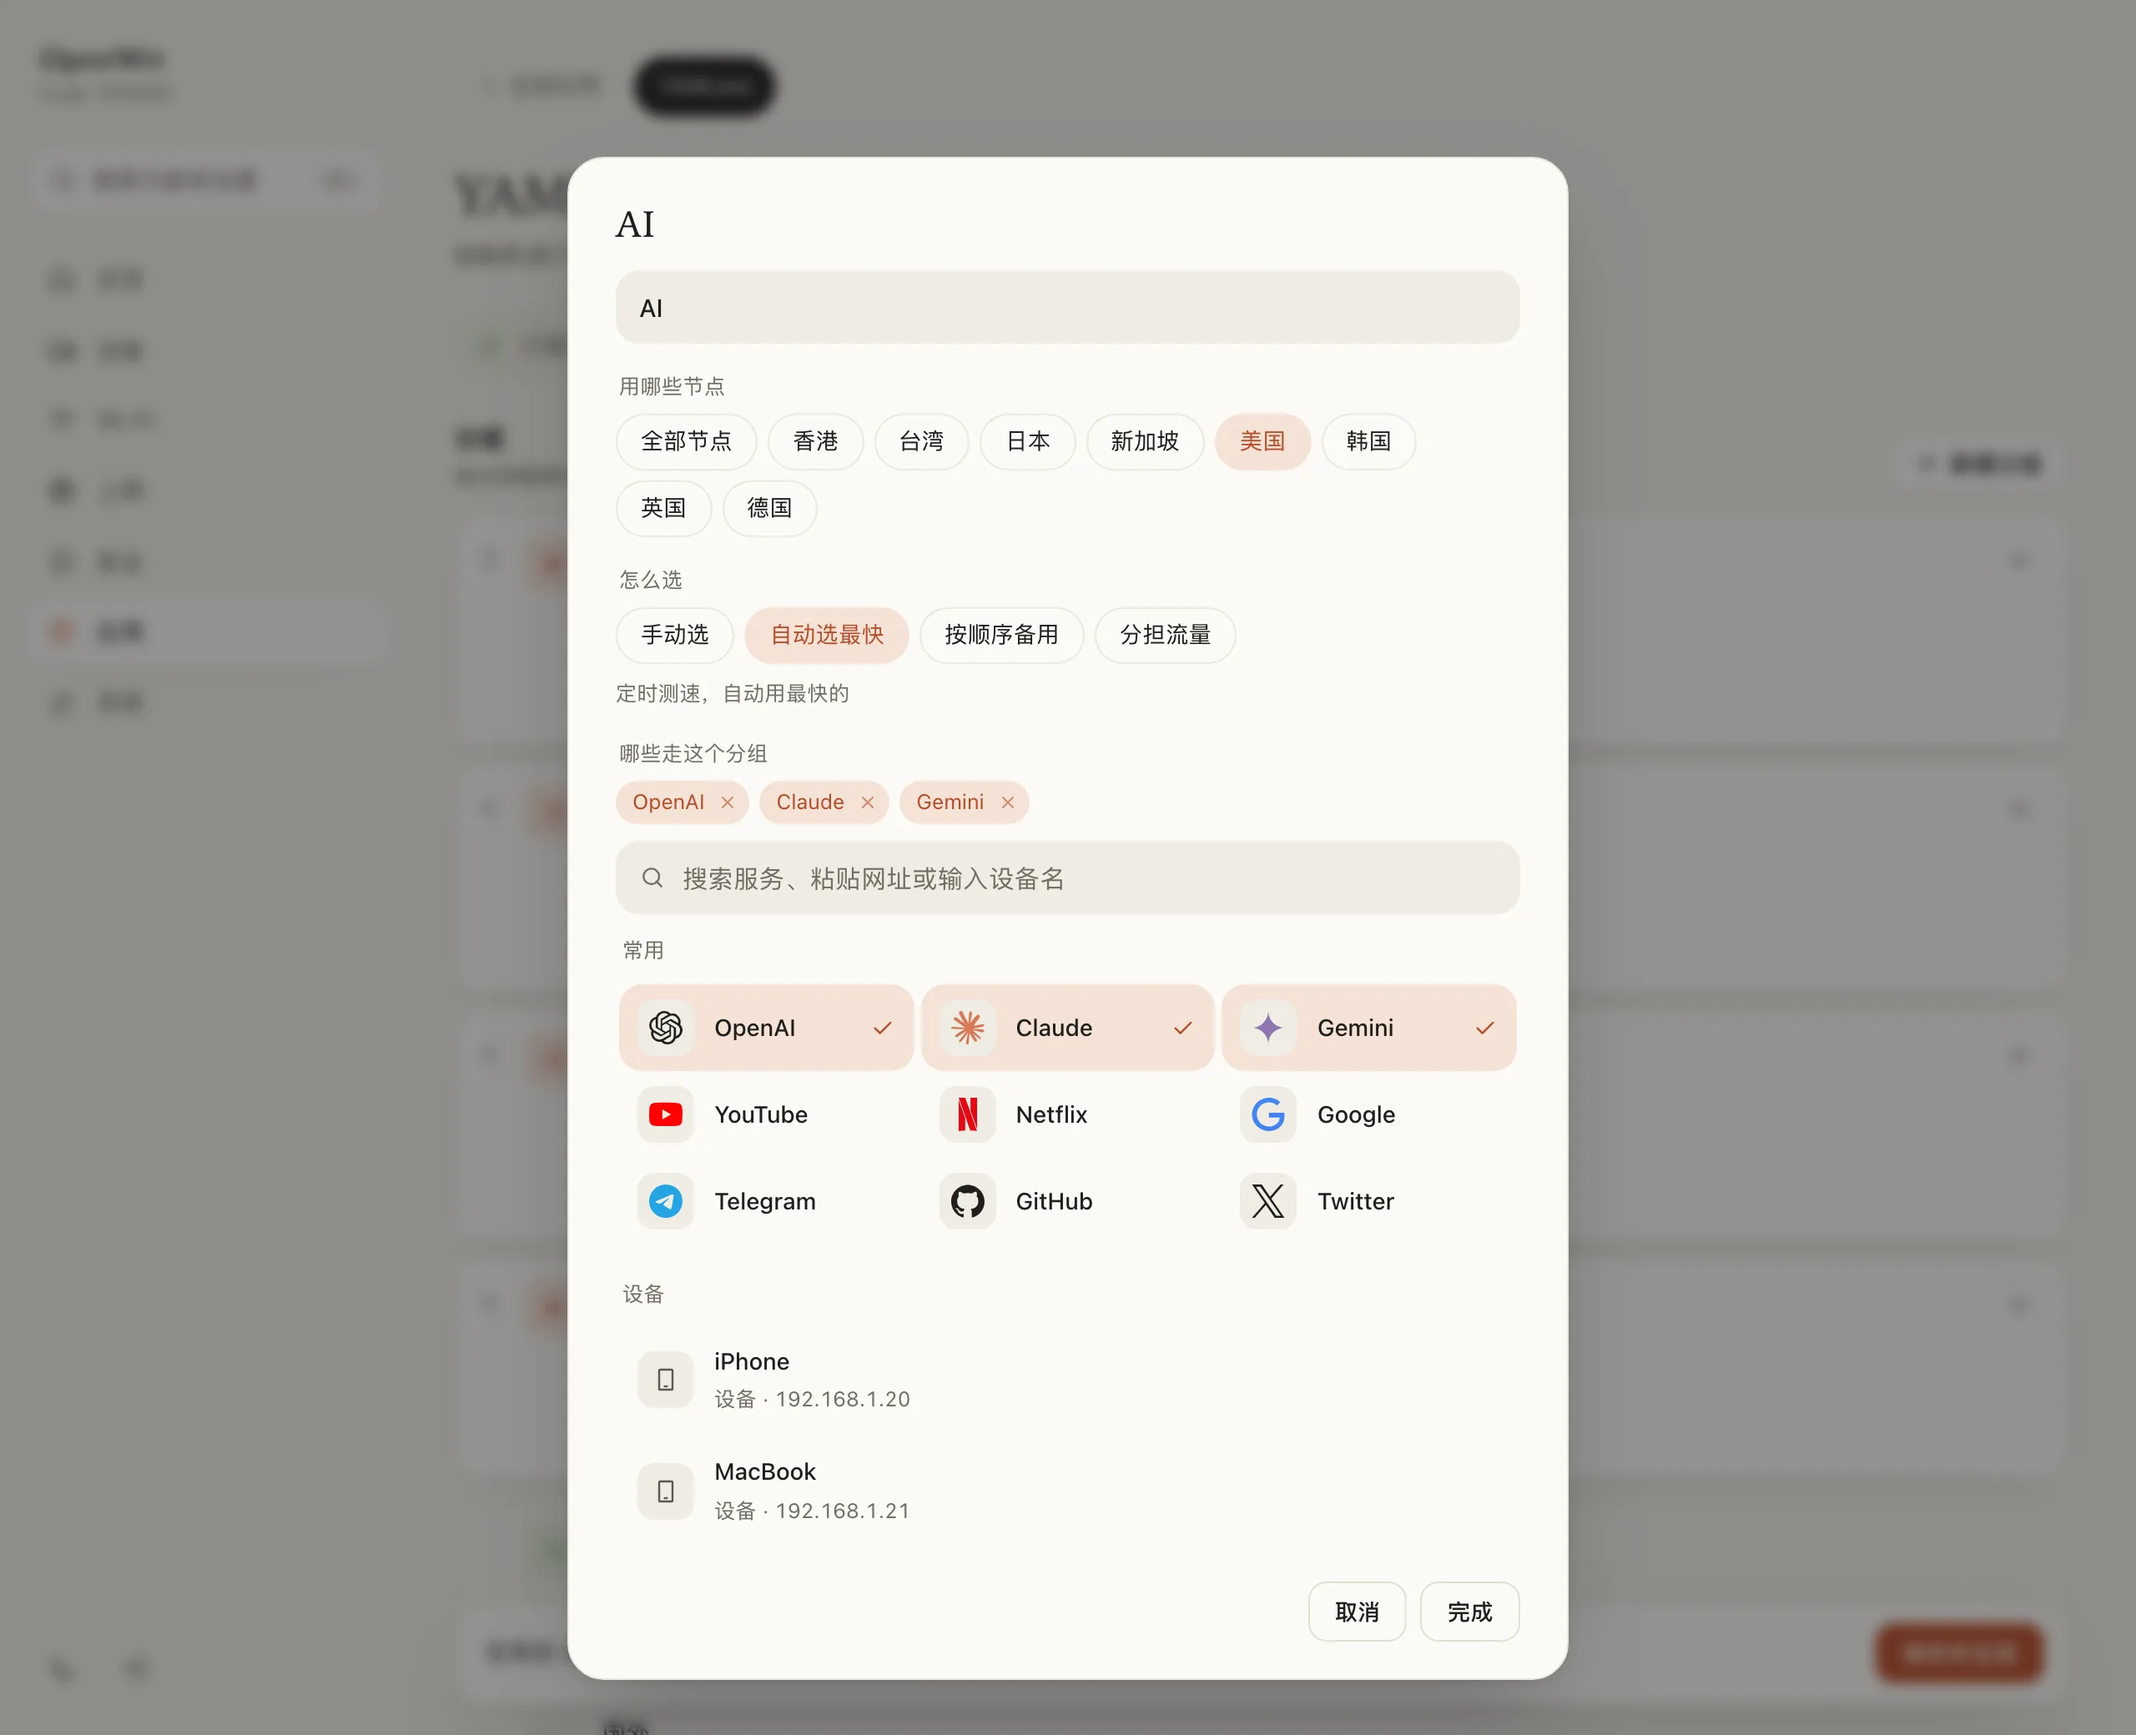
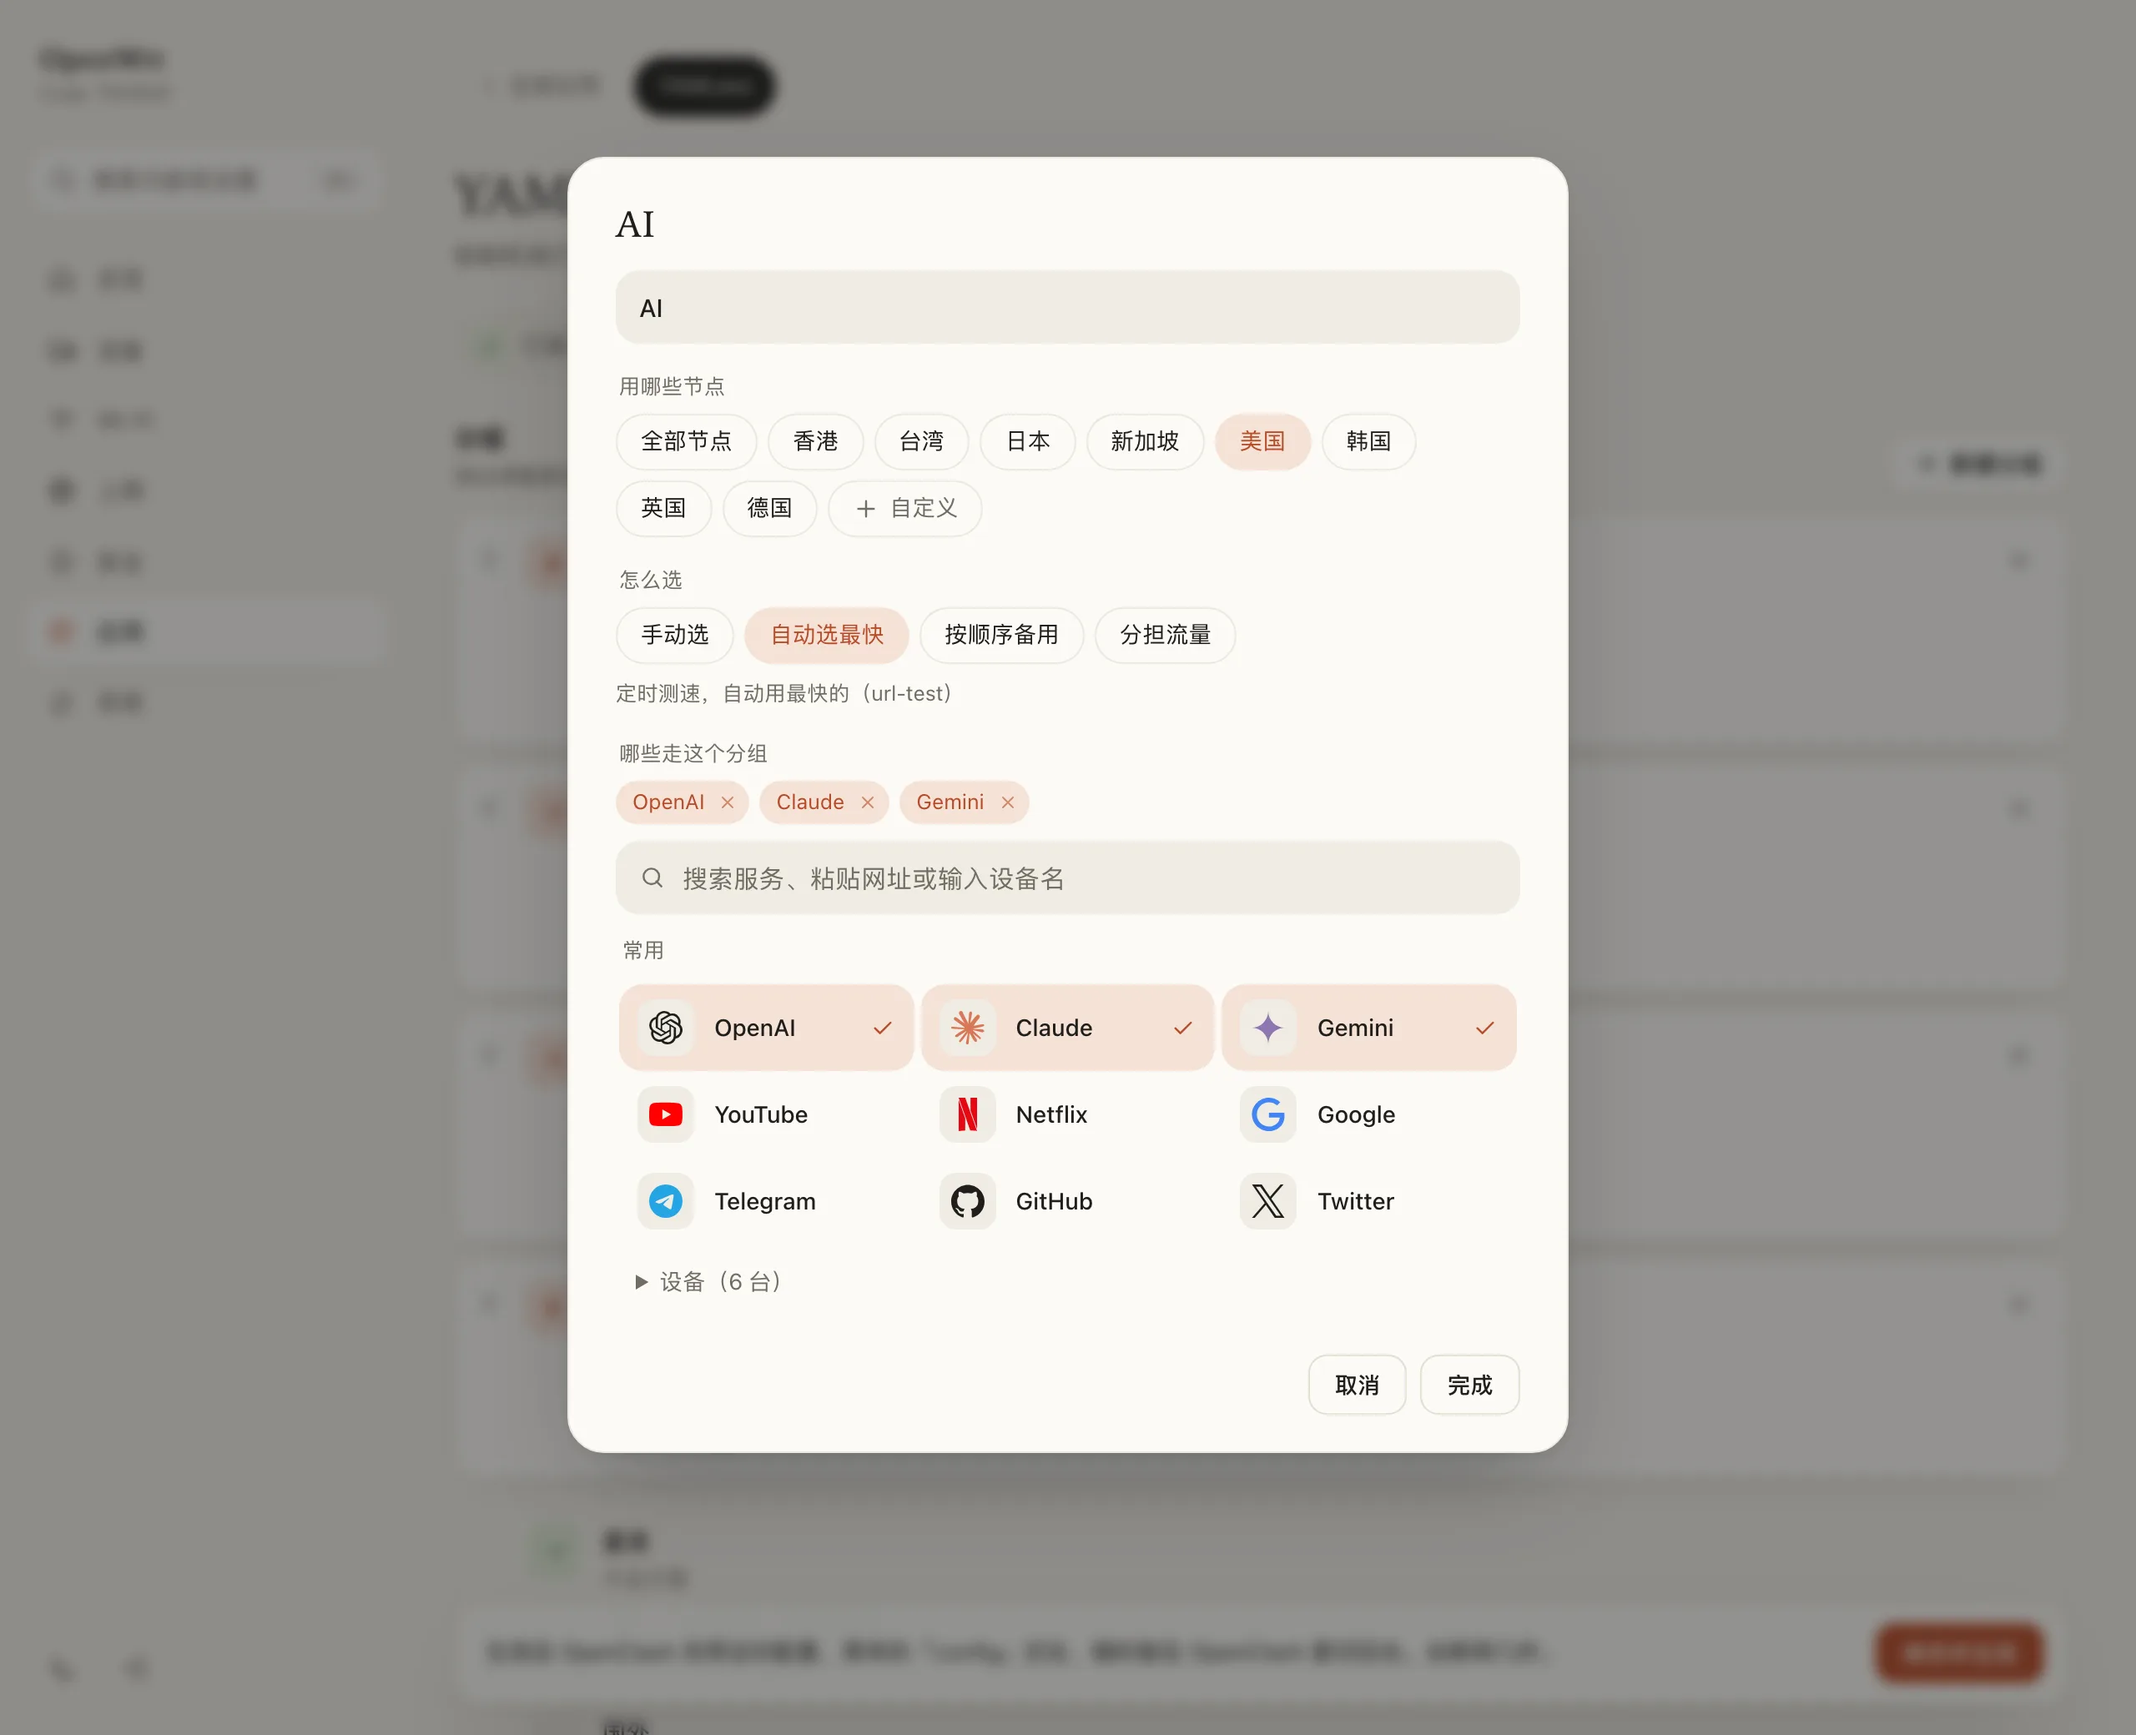
Devices folded by default; custom node keywords; show core group type names; http subscription links

Changed region(s): [[0.25, 0.7812, 0.75, 1.0], [0.2812, 0.7188, 0.3438, 0.75], [0.4062, 0.2812, 0.4375, 0.3125]]

diff --git a/htdocs/luci-static/resources/view/yamless/rules.js b/htdocs/luci-static/resources/view/yamless/rules.js
@@ -93,6 +93,9 @@ const line = (r, to) => r[0] == 'RULE-SET' ? `RULE-SET,${MINE}${r[1]},${to}` : `
 const ABROAD = T('国外', 'Overseas');
 const starter = auto => ({ subs: [ '' ], groups: [], direct: GEO.map(g => [ 'GEOIP', g[0] ]), rest: { type: auto, m: [ '*' ] }, mirror: 0 });
 const solo = t => t == '*' || t == 'd';   // node choices that stand alone
+// 'k:尼日利亚 NG' is a custom choice: any node whose name has one of these words
+const words = s => s.split(/[\s,，、|]+/).filter(Boolean);
+const reEsc = s => s.replace(/[.*+?^${}()|[\]\\]/g, '\\$&');
 
 function stateOf(conf) {
 	const l = conf.split('\n').find(l => l.startsWith(TAG));
@@ -233,7 +236,7 @@ return view.extend({
 	// null = every node, '' = no nodes, otherwise a regex the core filters the subscription with
 	filterOf(g) {
 		if (g.m.includes('*')) return null;
-		return g.m.filter(t => t[0] == 'r' && REG.has(t.slice(2))).map(t => REG.get(t.slice(2)).re).join('|');
+		return g.m.map(t => t[0] == 'r' ? (REG.get(t.slice(2)) || {}).re : t[0] == 'k' ? words(t.slice(2)).map(reEsc).join('|') : '').filter(Boolean).join('|');
 	},
 
 	snap() {
@@ -329,9 +332,9 @@ return view.extend({
 	},
 
 	pSubs() {
-		const rows = this.subs.map((u, i) => `<div class="sr-sub"><div class="sr-sub-r"><input class="cbi-input-text" type="url" data-sub="${i}" value="${esc(u)}" placeholder="https://…" autocomplete="off" spellcheck="false" aria-label="${T('订阅链接', 'Subscription link')}">
+		const rows = this.subs.map((u, i) => `<div class="sr-sub"><div class="sr-sub-r"><input class="cbi-input-text" type="url" data-sub="${i}" value="${esc(u)}" placeholder="${T('粘贴订阅链接', 'Paste the subscription link')}" autocomplete="off" spellcheck="false" aria-label="${T('订阅链接', 'Subscription link')}">
 				${this.subs.length > 1 ? `<button type="button" class="sr-x sr-subx" data-i="${i}" aria-label="${T('删除', 'Delete')}">${IC.x}</button>` : ''}</div>
-				<small class="sr-info bad"${!u || LINK.test(u) ? ' hidden' : ''}>${T('这不是一个链接，应以 https:// 开头', 'Not a link; it should start with https://')}</small></div>`).join('');
+				<small class="sr-info bad"${!u || LINK.test(u) ? ' hidden' : ''}>${T('这不是一个链接，应以 http:// 或 https:// 开头', 'Not a link; it should start with http:// or https://')}</small></div>`).join('');
 		const offer = this.ocSubs.filter(s => !this.subs.includes(s.address));
 		return `<section class="sr-sec">
 				<div class="sr-cap2"><b>${T('订阅链接', 'Subscription link')}</b><small>${T('机场给你的订阅地址', 'The link your provider gave you')}</small></div>
@@ -453,10 +456,11 @@ return view.extend({
 		const $ = s => box.querySelector(s), name = $('.sr-nm input'), find = $('.sr-find'), err = $('.sr-err');
 		const paintM = () => {
 			if (dir) return;
-			$('.sr-mem').innerHTML = [ '*', ...REGIONS.map(r => 'r:' + r.key), ...rest ? [ 'd' ] : [] ].map(t => this.opt(t, this.mLabel(t), d.m.includes(t))).join('');
+			$('.sr-mem').innerHTML = [ '*', ...REGIONS.map(r => 'r:' + r.key), ...d.m.filter(t => t[0] == 'k'), ...rest ? [ 'd' ] : [] ].map(t => this.opt(t, this.mLabel(t), d.m.includes(t))).join('')
+				+ `<button type="button" class="sr-opt sr-kw-add">${IC.plus}${T('自定义', 'Custom')}</button>`;
 			$('.sr-how').hidden = d.m.includes('d');
 			$('.sr-types').innerHTML = TYPES.filter(([ v ]) => v != 'smart' || this.smart || v == d.type).map(([ v, l ]) => this.opt(v, l, v == d.type, 'y')).join('');
-			$('.sr-tip').textContent = (TYPES.find(t => t[0] == d.type) || [])[2] || '';
+			$('.sr-tip').textContent = ((TYPES.find(t => t[0] == d.type) || [])[2] || '') + T(`（${d.type}）`, ` (${d.type})`);
 		};
 		let list = [];
 		const paintR = () => {
@@ -474,8 +478,7 @@ return view.extend({
 			const html = list.map(hit), dev = html.filter((h, i) => list[i][0] == 'SRC-IP-CIDR'), open = $('.sr-dev')?.open;
 			$('.sr-hits').innerHTML = s ? html.join('') || `<p class="sr-none">${T('没找到。可以试试英文名，或者直接粘贴网址。', 'Nothing found. Try the English name, or paste a URL.')}</p>`
 				: `<p class="sr-cap">${T('常用', 'Popular')}</p><div class="sr-pop">${html.filter((h, i) => list[i][0] != 'SRC-IP-CIDR').join('')}</div>`
-					+ (dev.length ? `<p class="sr-cap">${T('设备', 'Devices')}</p>${dev.slice(0, 3).join('')}`
-						+ (dev.length > 3 ? `<details class="sr-more sr-dev"${open ? ' open' : ''}><summary>${T(`其余 ${dev.length - 3} 台`, `${dev.length - 3} more`)}</summary>${dev.slice(3).join('')}</details>` : '') : '');
+					+ (dev.length ? `<details class="sr-more sr-dev"${open ? ' open' : ''}><summary>${T(`设备（${dev.length} 台）`, `Devices (${dev.length})`)}</summary>${dev.join('')}</details>` : '');
 		};
 		box.onclick = ev => {
 			const b = ev.target.closest('button');
@@ -494,6 +497,19 @@ return view.extend({
 				if (r) { d.m = [ 'r:' + r.key ]; d.type = this.auto; }
 				if (idea) for (const s of idea[2].split(' ')) this.sets.has(s) && !d.r.some(x => x[1] == s) && d.r.push([ 'RULE-SET', s ]);
 				paintM(); paintR();
+			}
+			else if (b.classList.contains('sr-kw-add')) {
+				b.outerHTML = `<input class="sr-opt sr-kw" maxlength="40" autocomplete="off" placeholder="${T('节点名里的词，如 尼日利亚', 'Word in node names, e.g. Nigeria')}">`;
+				const i = $('.sr-kw'), add = () => {
+					if (i.done) return;
+					i.done = 1;
+					const w = words(i.value).join(' ');
+					if (w && !d.m.includes('k:' + w)) d.m = [ ...d.m.filter(x => !solo(x)), 'k:' + w ];
+					paintM();
+				};
+				i.onkeydown = ev => { if (ev.key == 'Enter' || ev.key == 'Escape') { ev.preventDefault(); ev.stopPropagation(); ev.key == 'Enter' ? add() : paintM(); } };
+				i.onblur = () => i.isConnected && add();
+				return i.focus();
 			}
 			else if (b.classList.contains('sr-mx')) { d.r.splice(+b.dataset.i, 1); paintR(); }
 			else if (b.classList.contains('sr-hit')) {

diff --git a/htdocs/luci-static/resources/yamless/rules.css b/htdocs/luci-static/resources/yamless/rules.css
@@ -117,6 +117,7 @@
 .sr-opt{display:inline-flex;align-items:center;gap:6px;max-width:100%;height:34px;padding:0 14px;border-radius:99px;border:1px solid var(--ln);background:none;color:inherit;font:inherit;font-size:13.5px;cursor:pointer;transition:background var(--f),border-color var(--f),color var(--f)}
 .sr-opt:hover{border-color:var(--a)}
 .sr-opt[aria-pressed=true]{background:var(--as);border-color:transparent;color:var(--a2)}
+.sr-kw-add{color:var(--i3)}.sr-kw{width:17em;max-width:100%;cursor:text;outline:0}.sr-kw:focus{border-color:var(--a)}
 .sr-tip{margin-top:8px}
 .sr-chosen{min-height:26px;align-items:center;margin-bottom:10px}
 .sr-chosen .sr-m{background:var(--as);color:var(--a2)}

diff --git a/README.md b/README.md
@@ -36,10 +36,10 @@ YAMLess 只有两步，全程点选操作：
 
 - **一个组一张卡**：用哪些节点、哪些网站走它，在同一个地方选好。拖动卡片调整优先级
 - **只预设人人都要的**：局域网和国内网站直连，其余全走兜底的「国外」，它只需选节点和选法。只填订阅就能用；新建分组时可直接套用常用组合（AI、流媒体、社交……）
-- **选法齐全**：手动选、自动选最快、按顺序备用、分担流量；装了 Smart 内核还有「智能选」，新分组默认就用它
-- **按地区选节点**：香港、日本、美国……按节点名自动筛选，不用逐个挑；订阅中混在节点列表里的「剩余流量」「到期时间」会被过滤掉
+- **选法齐全**：手动选（select）、自动选最快（url-test）、按顺序备用（fallback）、分担流量（load-balance）；装了 Smart 内核还有「智能选」（smart），新分组默认就用它
+- **按地区选节点**：香港、日本、美国……按节点名自动筛选，不用逐个挑；少见的地区点「自定义」，输入节点名里的词（比如「尼日利亚」）；订阅中混在节点列表里的「剩余流量」「到期时间」会被过滤掉
 - **搜索添加**：常用平台带图标；内置 [blackmatrix7/ios_rule_script](https://github.com/blackmatrix7/ios_rule_script) 的 660+ 个规则集，支持中文搜索
-- **网址和设备**：粘贴网址自动提取域名；从在线设备里点选，让某台设备全部直连或走代理
+- **网址和设备**：粘贴网址自动提取域名；在「设备」里点选，让某台设备全部直连或走代理
 - **不会改坏**：生效前由内核检查配置，没通过就不切换；原来的配置留在 OpenClash 里，随时切回
 - **轻**：安装包 30 KB，只是一个网页，没有后台进程。只在点「保存并生效」时由路由器生成和检查配置
 - **兼容**：OpenClash 的 Meta（mihomo）和 Smart 内核；任何 LuCI 主题下都能用，配合 [7Dollar](https://github.com/itsmaiGe/luci-theme-7dollar) 主题效果最好
@@ -140,7 +140,7 @@ make package/luci-app-yamless/compile V=s
 | --- | --- |
 | OpenWrt | 23.05、24.10（ipk），25.x（apk） |
 | OpenClash | Meta（mihomo）内核、Smart 内核 |
-| 订阅格式 | 内核能读的都行：Clash / mihomo 订阅，或常见的分享链接订阅 |
+| 订阅格式 | 内核能读的都行：Clash / mihomo 订阅，或常见的分享链接订阅；http 和 https 链接都可以 |
 | 浏览器 | 2023 年以后的 Chrome / Edge / Safari / Firefox |
 | 已测试 | Cudy TR3000 · OpenWrt 24.10.5 · OpenClash 0.48 · mihomo 1.19 |
 
